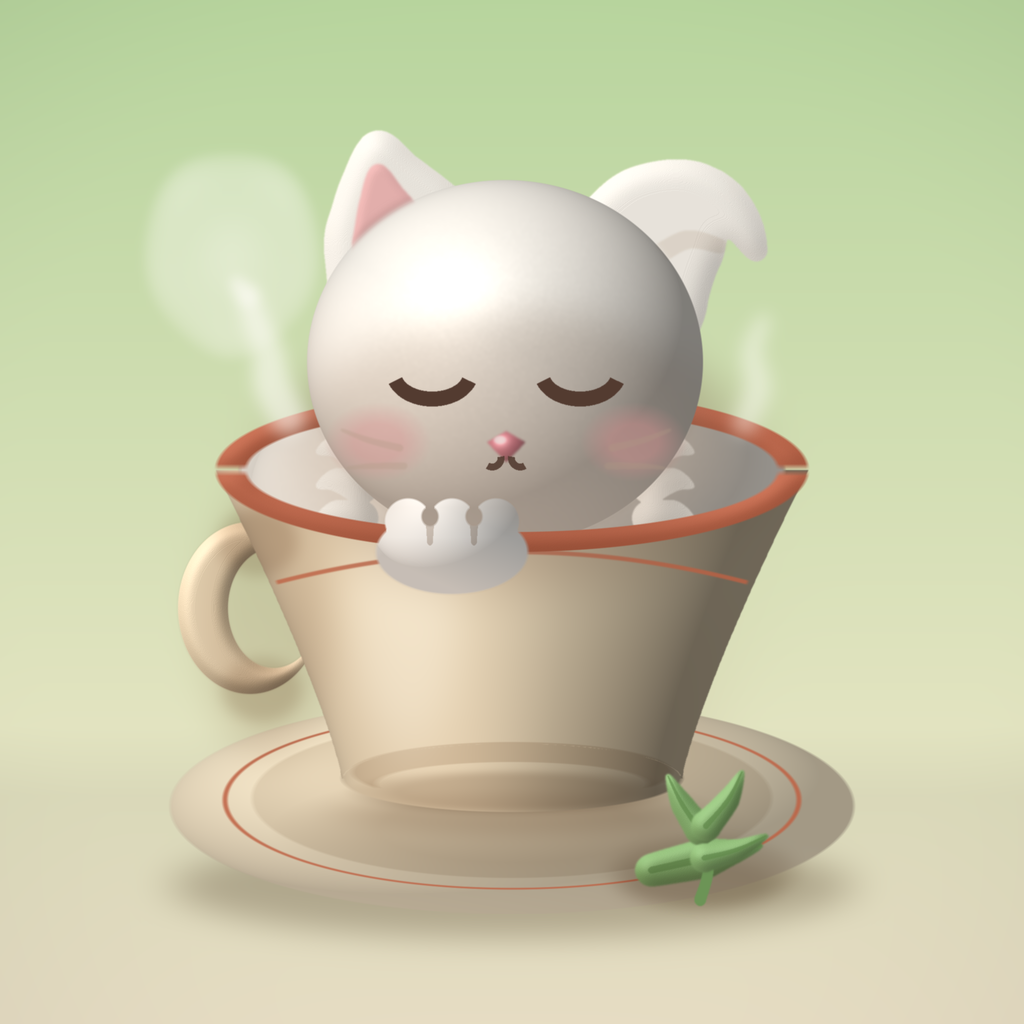
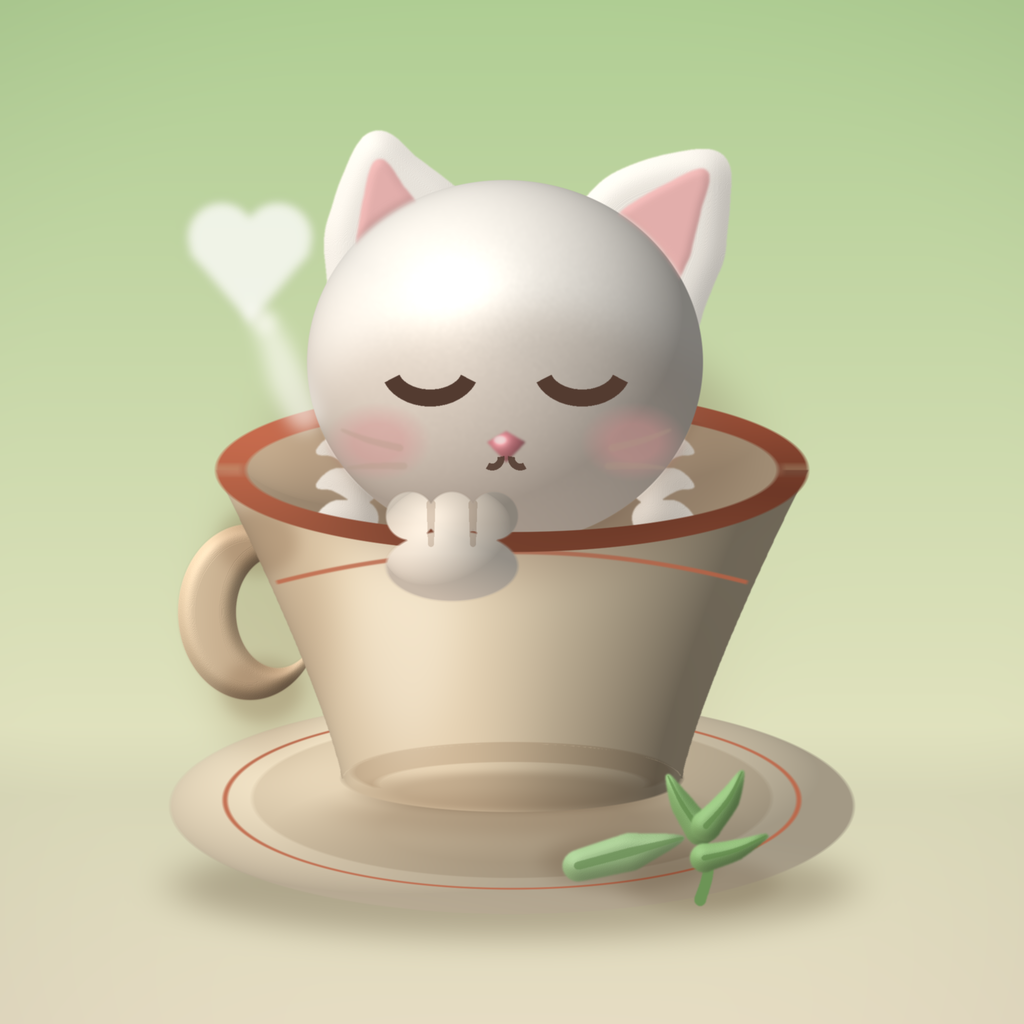
art: rebuild the kitten - cat ears, one clear paw, heart-shaped steam, closed rim seam

diff --git a/tools/render.py b/tools/render.py
@@ -98,6 +98,16 @@ def stroke_pts(points, radii, soft=1.0):
     return out
 
 
+def heart_shape(cx, cy, s, soft=3.0):
+    """Two lobes over a point: an unmistakable heart."""
+    m = np.clip(ell(cx - 0.42 * s, cy - 0.34 * s, 0.50 * s, 0.50 * s, soft=2.0)
+                + ell(cx + 0.42 * s, cy - 0.34 * s, 0.50 * s, 0.50 * s, soft=2.0)
+                + poly_mask([(cx - 0.90 * s, cy - 0.12 * s),
+                             (cx + 0.90 * s, cy - 0.12 * s),
+                             (cx, cy + 0.94 * s)], soft=soft), 0, 1)
+    return bl(m, 2.0)
+
+
 def heart(cx, cy, s, soft=1.2, rot=0.0):
     dx = (X - cx) / s
     dy = -(Y - cy) / s
@@ -161,6 +171,19 @@ def pillow(mask, base, blur=16.0, k=0.85, amb=0.58, diff=0.42, spec=0.12, sp=12,
     return _light(nx / ln, ny / ln, nz / ln, base, amb, diff, spec, sp, bounce, bcol)
 
 
+def torus_shade(mask, cx, cy, rx, ry, base, amb=0.55, diff=0.45, spec=0.14, sp=8,
+         bounce=0.10, bcol=(255, 206, 168), tilt=0.78):
+    """Smooth torus-ish shading for a rim: normal points outward around the ellipse."""
+    dx = (X - cx) / rx
+    dy = (Y - cy) / ry
+    ln = np.sqrt(dx * dx + dy * dy) + 1e-6
+    nx = dx / ln * tilt
+    ny = dy / ln * tilt
+    nz = np.full_like(nx, 0.66)
+    l = np.sqrt(nx * nx + ny * ny + nz * nz)
+    return _light(nx / l, ny / l, nz / l, base, amb, diff, spec, sp, bounce, bcol)
+
+
 def cyl(mask, cx, hw_of_y, base, amb=0.40, diff=0.58, spec=0.12, sp=10,
         bounce=0.14, bcol=(255, 200, 160)):
     hw = hw_of_y(Y)
@@ -197,7 +220,7 @@ def save(img, path):
 
 # ---------------------------------------------------------------- palette
 P = dict(
-    bg_top=(184, 213, 158),
+    bg_top=(176, 206, 148),
     bg_bot=(244, 234, 207),
     glow=(255, 250, 233),
     cup=(243, 225, 192),
@@ -244,12 +267,14 @@ def render_a():
     img = flat(img, bl(ring, 0.7), P["rim"], 0.85)
 
     # ---------------------------------------------- cup handle (behind the body)
-    h_out = ell(250, 608, 72, 86, soft=1.3)
-    h_in = ell(274, 608, 46, 60, soft=1.3)
+    h_out = ell(250, 612, 72, 88, soft=1.3)
+    h_in = ell(278, 612, 42, 56, soft=1.3)
     handle = np.clip(h_out - h_in, 0, 1)
-    img = over(img, pillow(handle, (241, 219, 182), blur=13, k=0.75, amb=0.50, diff=0.50,
+    img = over(img, pillow(handle, (230, 204, 166), blur=13, k=0.85, amb=0.46, diff=0.54,
                            spec=0.20, sp=10), handle)
     img = flat(img, np.clip(bl(handle, 2.0) - handle, 0, 1), (150, 120, 94), 0.22)
+    img = shade(img, np.clip((bl(h_out, 3.0) - h_out) + (h_in - bl(h_in, 3.0)), 0, 1) * handle,
+                0.16, (156, 124, 96))
 
     # ---------------------------------------------- cup body
     rim_cy, body_y = 470, 778
@@ -287,27 +312,24 @@ def render_a():
 
     # ---------------------------------------------- cup mouth
     mouth = ell(512, rim_cy, 272, 66, soft=1.3)
-    img = over(img, sphere(mouth, 512, rim_cy - 12, 272, 66, P["cup_in"], amb=0.74, diff=0.26,
-                           spec=0.04, sp=6, bounce=0.0), mouth)
-    img = shade(img, mouth * np.clip((412.0 - Y) / 80.0, 0, 1), 0.40, (116, 88, 62))
+    img = over(img, sphere(mouth, 512, rim_cy - 12, 272, 66, (216, 190, 158), amb=0.76,
+                           diff=0.24, spec=0.04, sp=6, bounce=0.0), mouth)
+    img = shade(img, mouth * np.clip((424.0 - Y) / 95.0, 0, 1), 0.40, (114, 88, 62))
     band = np.clip(ell(512, rim_cy, 296, 82, soft=1.2)
                    - ell(512, rim_cy, 266, 62, soft=1.2), 0, 1)
-    far = band * np.clip((rim_cy - Y) / 6.0, 0, 1)
+    w_far = np.clip((rim_cy + 8.0 - Y) / 16.0, 0, 1)
+    far = band * w_far
 
     # ---------------------------------------------- kitten: shoulders in the cup
-    shoulders = np.clip(ell(512, 512, 262, 150, soft=2.0)
-                        + ell(384, 506, 156, 108, soft=2.0)
-                        + ell(640, 506, 156, 108, soft=2.0), 0, 1) * mouth
-    img = over(img, sphere(shoulders, 512, 494, 262, 150, P["fur"], amb=0.60, diff=0.40,
-                           spec=0.08, sp=12, bounce=0.12, grain=0.05), shoulders)
-    img = shade(img, bl(ell(512, 464, 250, 134, soft=34), 34), 0.16, (128, 100, 76))
-    img = over(img, pillow(far, P["rim"], blur=15, k=0.30, amb=0.62, diff=0.38, spec=0.10,
-                           sp=8), far)
+    img = shade(img, bl(np.clip(ell(512, 588, 240, 90, soft=20), 0, 1) * mouth, 26), 0.22,
+                (122, 96, 70))
+    img = shade(img, bl(np.clip(ell(512, 456, 248, 128, soft=34), 0, 1), 34), 0.15, (128, 102, 78))
+    img = over(img, torus_shade(far, 512, rim_cy, 281, 72, P["rim"], amb=0.59, diff=0.41,
+                         spec=0.13, sp=9, tilt=0.80), far)
 
     # ---------------------------------------------- ears (behind the head)
     earL = stroke([(414, 296), (402, 244), (386, 192), (378, 148)], [86, 78, 46, 17], soft=1.4)
-    earR = stroke([(622, 292), (654, 236), (696, 206), (736, 218), (756, 250)],
-                  [86, 72, 42, 22, 11], soft=1.4)
+    earR = stroke([(618, 296), (650, 240), (684, 198), (712, 168)], [86, 76, 46, 16], soft=1.4)
     tufts = np.zeros((W, W), np.float32)
     for ty, tl in ((452, 46), (486, 40), (518, 32)):
         tufts = np.clip(tufts + stroke([(360, ty), (336, ty - 6), (318, ty + tl * 0.0)],
@@ -320,21 +342,21 @@ def render_a():
     # ---------------------------------------------- head
     hcx, hcy, hrx, hry = 505, 362, 198, 182
     head = ell(hcx, hcy, hrx, hry, soft=1.3)
-    img = shade(img, np.clip(bl(head, 7.0) - bl(head, 2.0), 0, 1) * mouth, 0.16, (140, 112, 86))
+    img = shade(img, np.clip(bl(head, 13.0) - bl(head, 2.0), 0, 1) * mouth, 0.26, (128, 100, 74))
     img = over(img, sphere(head, hcx, hcy, hrx, hry, P["fur"], amb=0.50, diff=0.50, spec=0.12,
                            sp=22, bounce=0.20, grain=0.055), head)
 
     # inner ears, only on the visible part of each ear
     vis = bl(np.clip(bl(ears, 4.0) - bl(head, 4.0), 0, 1), 1.2)
-    ieL = stroke([(406, 288), (396, 248), (384, 204), (378, 172)], [52, 44, 24, 8], soft=1.6)
+    ieL = stroke([(408, 288), (398, 246), (386, 200), (380, 166)], [50, 42, 22, 7], soft=1.6)
     ieR = stroke([(624, 286), (652, 240), (690, 214), (724, 226), (744, 252)],
                  [50, 40, 22, 10, 5], soft=1.6)
-    ieR = ieR * 0.0
+    ieR = stroke([(622, 288), (650, 242), (680, 202), (702, 176)], [50, 42, 22, 7], soft=1.6)
     inner = bl(np.clip((ieL + ieR) * vis, 0, 1), 1.6)
     img = over(img, pillow(inner, P["inner_ear"], blur=8, k=0.5, amb=0.70, diff=0.30, spec=0.05),
                inner, 0.85)
-    fold = stroke([(648, 262), (686, 240), (720, 246)], [10, 9, 7], soft=2.0)
-    img = shade(img, np.clip(fold * bl(vis, 3), 0, 1), 0.16, (176, 146, 118))
+    fold = stroke([(604, 292), (636, 268), (662, 258)], [9, 8, 6], soft=2.4)
+    img = shade(img, np.clip(fold * bl(vis, 3), 0, 1), 0.15, (176, 146, 118))
 
     # ---------------------------------------------- warm cheek fur, no hard crown marks
     img = flat(img, bl(ell(506, 452, 190, 120, soft=44), 44), (253, 238, 226), 0.18)
@@ -356,9 +378,9 @@ def render_a():
     # ---------------------------------------------- face
     face = Image.new("L", (W, W), 0)
     d = ImageDraw.Draw(face)
-    for ex in (432, 580):
-        d.arc([(ex - 46) * SS, (372 - 34) * SS, (ex + 46) * SS, (372 + 34) * SS], 20, 160,
-              fill=255, width=int(15 * SS))
+    for ex in (430, 582):
+        d.arc([(ex - 49) * SS, (368 - 38) * SS, (ex + 49) * SS, (368 + 38) * SS], 22, 158,
+              fill=255, width=int(17 * SS))
     img = flat(img, bl(np.asarray(face, np.float32) / 255.0, 0.8), P["face"])
 
     nose = poly_mask([(506, 462), (487, 442), (506, 431), (525, 442)], soft=2.4)
@@ -374,30 +396,28 @@ def render_a():
     img = flat(img, bl(np.asarray(mm_, np.float32) / 255.0, 0.7), P["face"], 0.9)
 
     # ---------------------------------------------- near lip
-    near = band * np.clip((Y - rim_cy) / 6.0, 0, 1)
-    img = over(img, pillow(near, P["rim"], blur=15, k=0.30, amb=0.62, diff=0.38, spec=0.10,
-                           sp=8), near)
+    near = band * (1.0 - w_far)
+    img = over(img, torus_shade(near, 512, rim_cy, 281, 72, P["rim"], amb=0.58, diff=0.42,
+                         spec=0.14, sp=9, tilt=0.80), near)
     img = shade(img, bl(ell(512, 440, 210, 130, soft=40), 26), 0.20, (118, 94, 72))
 
 
     # ---------------------------------------------- paw tucked under the chin
-    for cx0, cy0, pw, ph, tro, spread in ((452, 552, 76, 42, 23, 44),):
+    for cx0, cy0, pw, ph, tro, spread in ((452, 566, 66, 35, 24, 42),):
         m = ell(cx0, cy0, pw, ph, soft=2.0)
         for dx in (-spread, 0, spread):
-            m = np.clip(m + ell(cx0 + dx, cy0 - ph + tro * 0.5, tro, tro, soft=2.0), 0, 1)
-        for dx in (-spread * 0.5, spread * 0.5):
-            m = np.clip(m - ell(cx0 + dx, cy0 - ph + tro * 0.28, 8.5, 10.0, soft=2.2), 0, 1)
-        img = flat(img, np.clip(bl(m, 1.7) - m, 0, 1), (168, 138, 112), 0.42)
+            m = np.clip(m + ell(cx0 + dx, cy0 - 50, tro, tro, soft=2.0), 0, 1)
+        img = flat(img, np.clip(bl(m, 1.5) - m, 0, 1), (168, 138, 112), 0.60)
         img = shade(img, bl(np.clip(m - np.roll(m, 8, axis=0), 0, 1) * np.clip(
-            (Y - (cy0 - ph * 0.1)) / 26.0, 0, 1), 5.0), 0.30, (140, 112, 88))
-        img = over(img, sphere(m, cx0 - pw * 0.05, cy0 - ph * 0.85, pw * 1.05, ph * 1.5,
-                               (255, 253, 249), amb=0.62, diff=0.38, spec=0.12, sp=10,
-                               bounce=0.16), m)
+            (Y - (cy0 - ph * 0.1)) / 26.0, 0, 1), 5.0), 0.36, (138, 110, 86))
+        img = over(img, sphere(m, cx0 - pw * 0.05, cy0 - ph * 0.75, pw * 1.05, ph * 1.6,
+                               (247, 238, 224), amb=0.60, diff=0.40, spec=0.12, sp=10,
+                               bounce=0.20), m)
         img = shade(img, m * np.clip((cy0 - ph * 0.35 - Y) / 30.0, 0, 1), 0.16, (150, 124, 102))
         for dx in (-spread * 0.5, spread * 0.5):
-            cr = stroke([(cx0 + dx, cy0 - ph + tro * 0.72), (cx0 + dx, cy0 - ph * 0.22)],
-                        [3.6, 2.4], soft=0.7)
-            img = shade(img, np.clip(cr * m, 0, 1), 0.34, (140, 114, 92))
+            cr = stroke([(cx0 + dx, cy0 - 62), (cx0 + dx, cy0 - 22)],
+                        [4.2, 2.6], soft=0.7)
+            img = shade(img, np.clip(cr * m, 0, 1), 0.30, (146, 120, 98))
 
     # ---------------------------------------------- tail curled around the rim
     if os.environ.get("FLICK", "0") == "1":
@@ -409,16 +429,17 @@ def render_a():
                    tail)
 
     # ---------------------------------------------- biscuit crumbs
-    img = shade(img, bl(ell(704, 872, 92, 34, soft=10), 12), 0.24, (140, 118, 96))
-    for (cx0, cy0, ang, ln, wd) in ((706, 858, -0.22, 112, 38),):
+    img = shade(img, bl(ell(628, 862, 84, 30, soft=10), 12), 0.24, (140, 118, 96))
+    for (cx0, cy0, ang, ln, wd) in ((630, 852, -0.26, 108, 36),):
         ux, uy = math.cos(ang), math.sin(ang)
         path = [(cx0 - ux * ln * 0.5, cy0 - uy * ln * 0.5),
                 (cx0, cy0),
                 (cx0 + ux * ln * 0.5, cy0 + uy * ln * 0.5)]
         lf = stroke(path, [wd * 0.42, wd * 0.52, 2.0], soft=1.8)
-        img = over(img, pillow(lf, P["mint"], blur=13, k=0.7, amb=0.52, diff=0.48, spec=0.14), lf)
-        img = flat(img, np.clip(stroke(path, [wd * 0.08, wd * 0.09, 1.0], soft=1.0) * lf, 0, 1),
-                   (94, 132, 72), 0.7)
+        img = over(img, pillow(lf, (152, 188, 130), blur=13, k=0.7, amb=0.56, diff=0.44,
+                               spec=0.14), lf)
+        img = flat(img, np.clip(stroke(path, [wd * 0.10, wd * 0.11, 1.0], soft=1.0) * lf, 0, 1),
+                   (104, 140, 84), 0.72)
 
     # ---------------------------------------------- mint sprig
     img = shade(img, bl(ell(700, 884, 78, 26, soft=10), 12), 0.22, (140, 118, 96))
@@ -435,14 +456,15 @@ def render_a():
         img = flat(img, np.clip(ve * lf, 0, 1), (96, 136, 74), 0.72)
 
     # ---------------------------------------------- steam that curls into a heart
-    wisp = stroke([(288, 418), (272, 384), (268, 352), (256, 322), (248, 296)],
-                  [17, 18, 15, 12, 9], soft=1.2)
-    img = flat(img, bl(wisp, 15), P["steam"], 0.56)
-    conn = stroke([(248, 296), (240, 288), (236, 282)], [10, 8, 6], soft=1.2)
+    wisp = stroke([(304, 414), (288, 380), (276, 348), (264, 322)],
+                  [17, 18, 14, 10], soft=1.2)
+    img = flat(img, bl(wisp, 15), P["steam"], 0.60)
+    conn = stroke([(264, 322), (256, 316), (252, 312)], [11, 9, 7], soft=1.2)
     img = flat(img, bl(conn, 11), P["steam"], 0.55)
-    img = flat(img, bl(heart(232, 236, 58, soft=2.2), 8), P["steam"], 0.72)
-    wisp2 = stroke([(744, 424), (758, 388), (752, 352), (764, 320)], [11, 13, 10, 6], soft=1.2)
-    img = flat(img, bl(wisp2, 16), P["steam"], 0.46)
+    hsh = heart_shape(250, 260, 68)
+    img = shade(img, bl(hsh, 12.0), 0.10, (126, 128, 98))
+    img = flat(img, bl(hsh, 8.0), (255, 254, 250), 0.70)
+    img = flat(img, bl(heart_shape(249, 258, 62), 8.0), (255, 255, 255), 0.32)
 
     return img
 
